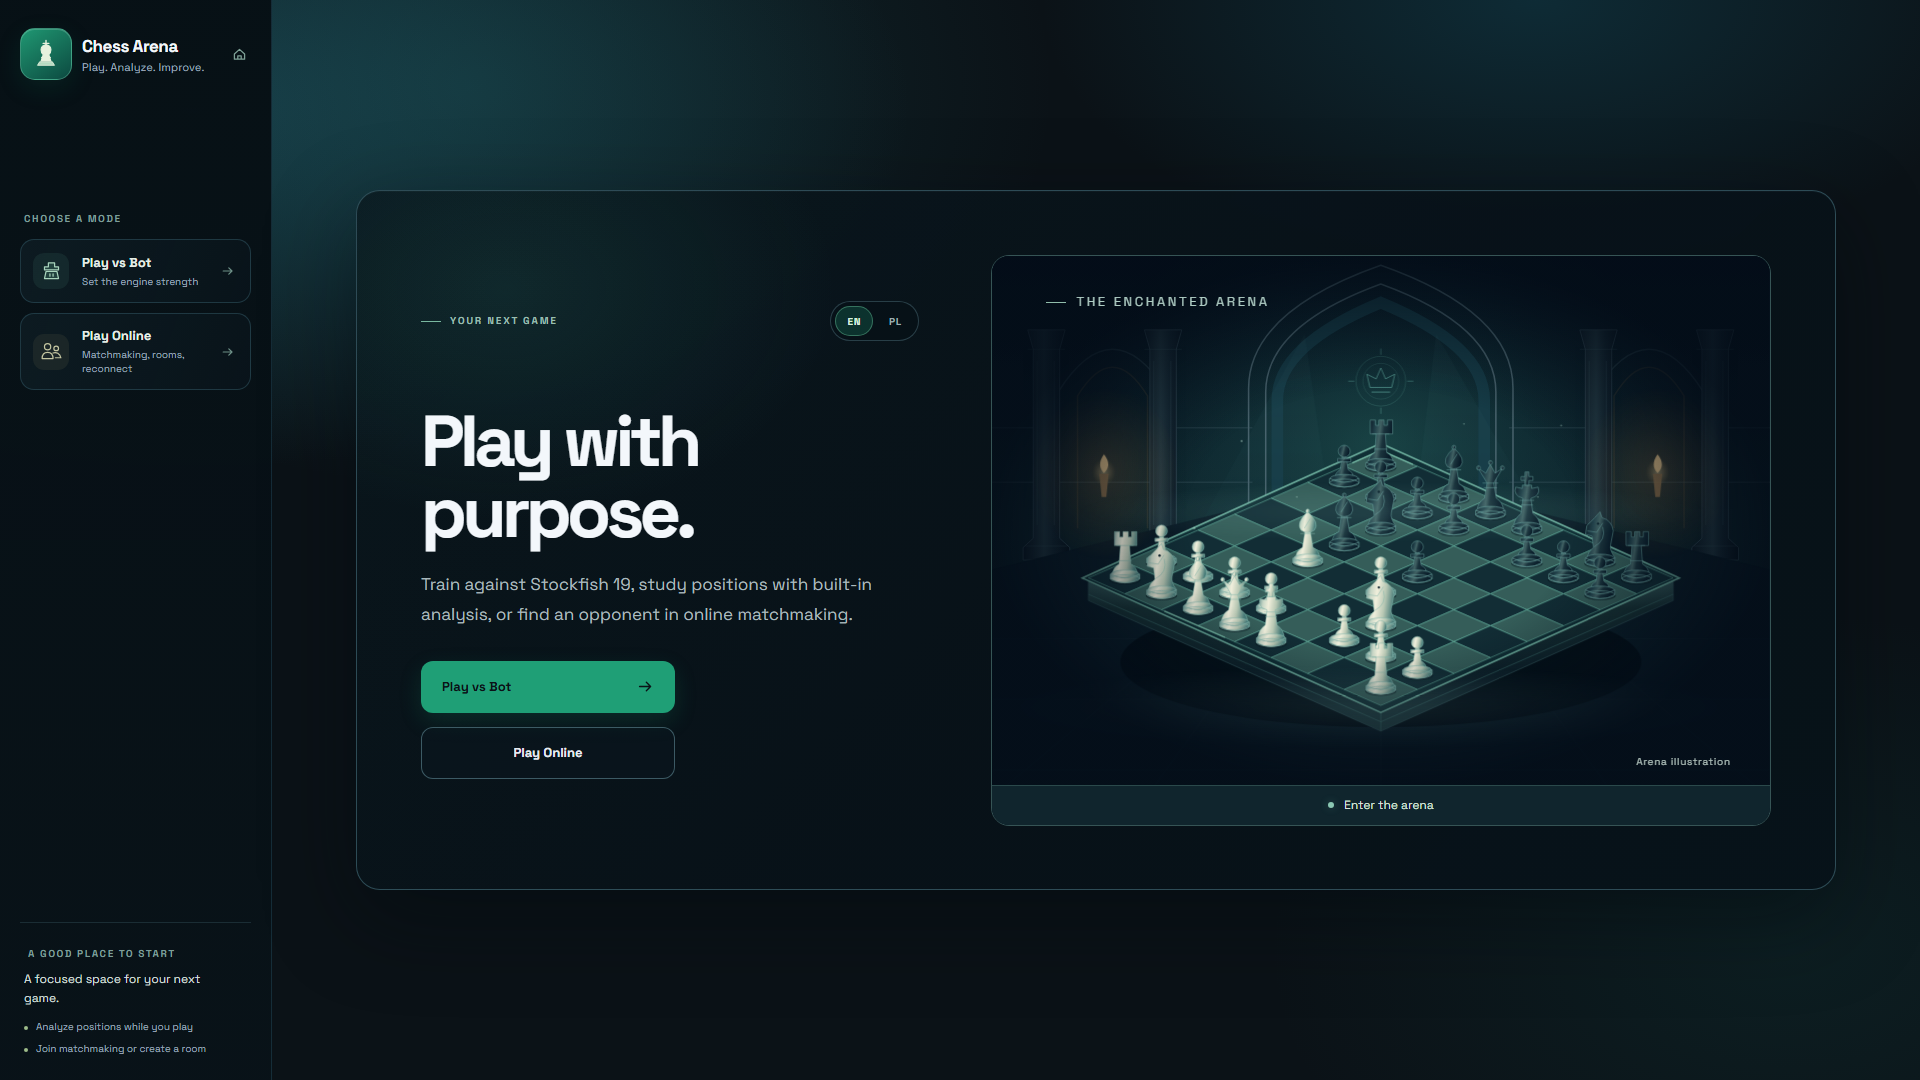
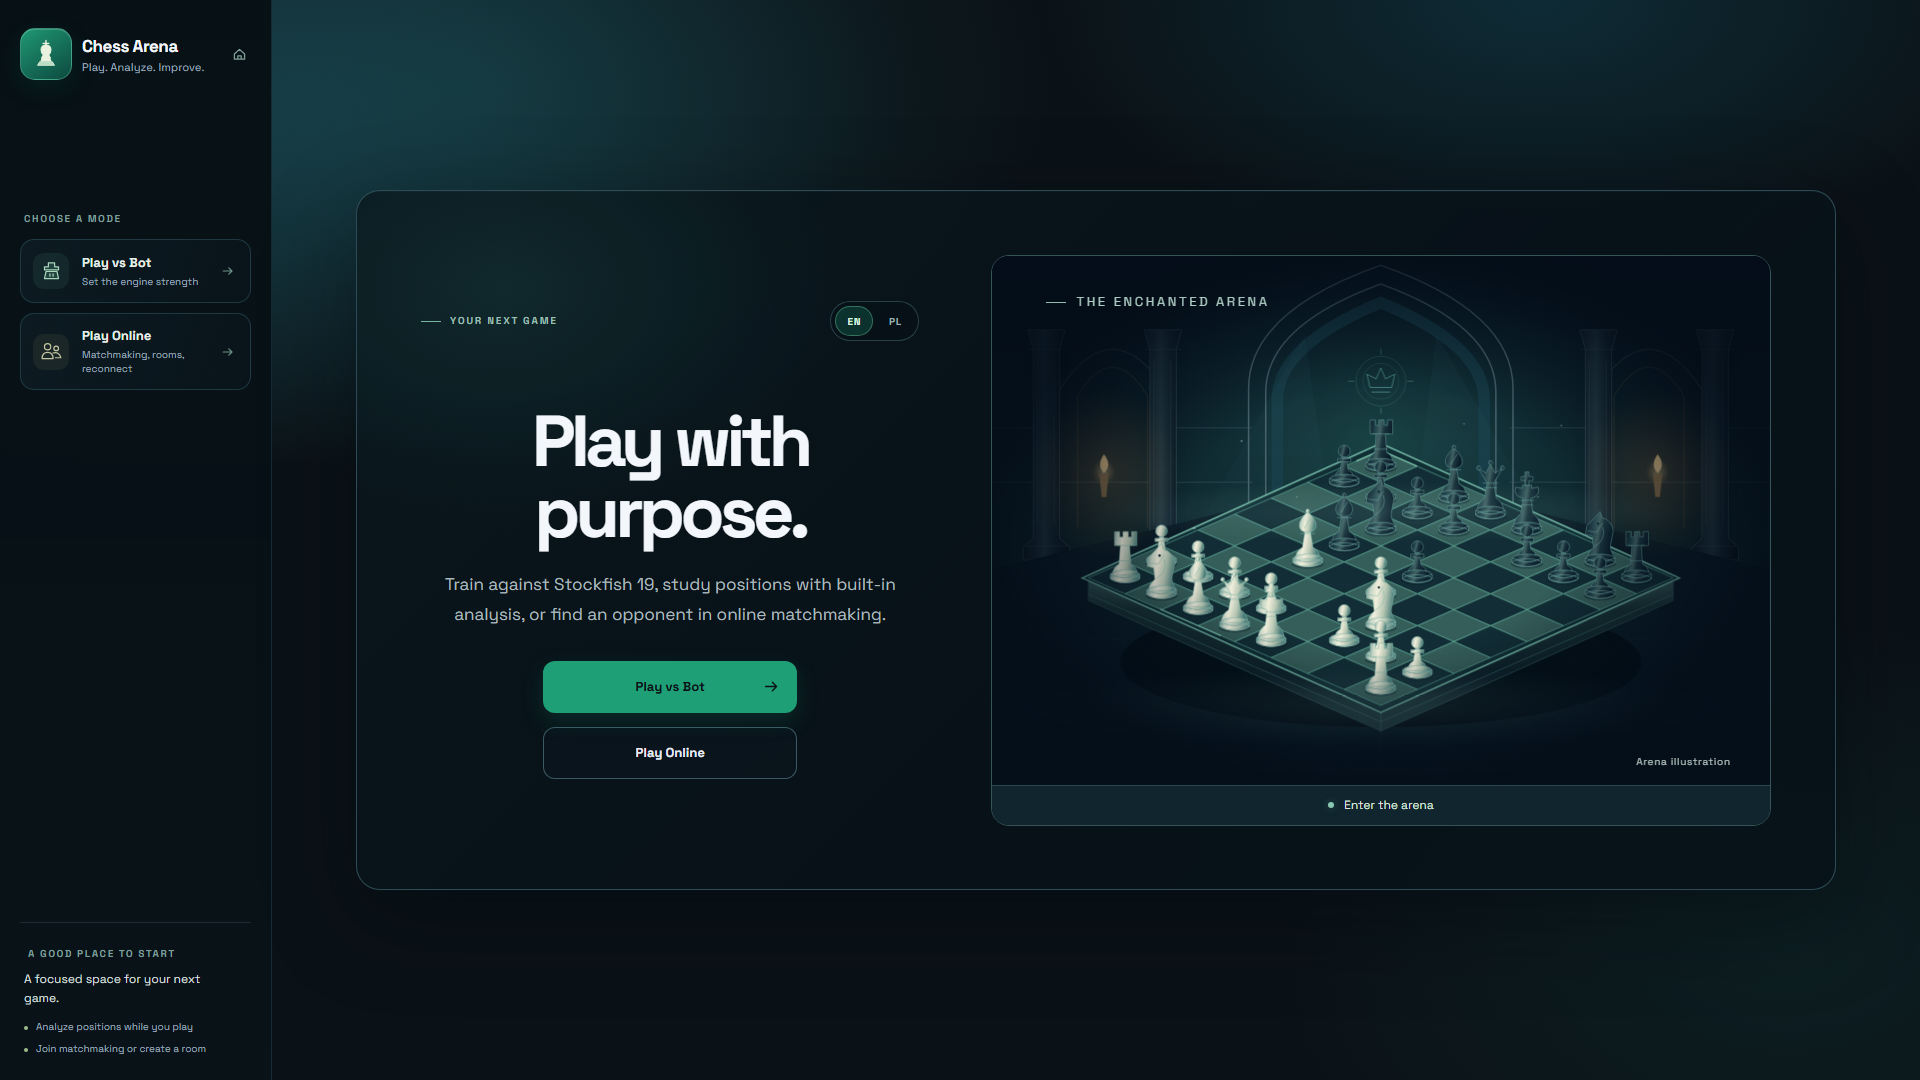
test(arena): refresh responsive review evidence

Changed region(s): [[0.2188, 0.3667, 0.4688, 0.5806], [0.3438, 0.6111, 0.4375, 0.7028], [0.2188, 0.6111, 0.3125, 0.7028]]

diff --git a/chess-web/src/app/home/home.page.css b/chess-web/src/app/home/home.page.css
@@ -134,7 +134,7 @@
 }
 
 .hero-text, .home-arena { position: relative; min-width: 0; }
-.hero-text { max-width: 540px; }
+.hero-text { max-width: 540px; text-align: center; }
 .hero-topline { display: flex; justify-content: space-between; align-items: center; gap: 12px; margin-bottom: clamp(38px, 6vh, 70px); }
 .hero-kicker { display: inline-flex; align-items: center; gap: 9px; color: #9bbdb0; font-size: 10px; font-weight: 700; letter-spacing: .18em; line-height: 1.4; }
 .kicker-line { width: 20px; height: 1px; background: #79b8a0; }
@@ -169,7 +169,7 @@
 
 .hero-text h1 {
   max-width: 10ch;
-  margin: 0 0 22px;
+  margin: 0 auto 22px;
   color: var(--arena-text-strong);
   font-size: clamp(42px, 5.3vw, 72px);
   font-weight: 700;
@@ -178,12 +178,13 @@
   text-wrap: balance;
 }
 
-.hero-description { max-width: 43ch; margin: 0; color: #aab9bd; font-size: clamp(14px, 1.2vw, 17px); line-height: 1.72; }
-.hero-actions { display: grid; grid-template-columns: minmax(0, 254px); gap: 14px; margin-top: 32px; }
+.hero-description { max-width: 43ch; margin: 0 auto; color: #aab9bd; font-size: clamp(14px, 1.2vw, 17px); line-height: 1.72; }
+.hero-actions { display: grid; grid-template-columns: minmax(0, 254px); justify-content: center; gap: 14px; margin: 32px auto 0; }
 .hero-actions .arena-button { box-sizing: border-box; width: 100%; min-width: 0; min-height: 52px; padding: 0 20px; border-radius: 12px; font-size: 13px; text-decoration: none; }
-.hero-actions .arena-button--primary { justify-content: space-between; gap: 8px; box-shadow: 0 8px 22px rgba(22, 153, 111, .18); }
+.hero-actions .arena-button--primary { position: relative; justify-content: center; box-shadow: 0 8px 22px rgba(22, 153, 111, .18); }
 .hero-actions .arena-button--secondary { border-color: rgba(83, 119, 131, .7); background: rgba(10, 24, 31, .48); }
 .hero-actions svg { width: 17px; height: 17px; fill: none; stroke: currentColor; stroke-width: 1.6; stroke-linecap: round; stroke-linejoin: round; }
+.hero-actions .arena-button--primary svg { position: absolute; right: 16px; }
 .home-arena { width: 100%; }
 .arena-placeholder { aspect-ratio: 10 / 7.25; border: 1px solid #365455; border-radius: var(--arena-radius-card); background: linear-gradient(145deg, #0c2028, #071420 60%, #10252d); }
 

diff --git a/docs/arena-review.md b/docs/arena-review.md
@@ -1,15 +1,16 @@
 # Chess Arena visual and functional review
 
-Browser review recorded at `2026-10-28T11:30:23Z`. Detailed browser data is in [report.json](arena-evidence/report.json), and the earlier live multiplayer run is in [multiplayer-report.json](arena-evidence/multiplayer-report.json). The current automated multiplayer smoke coverage is documented in [multiplayer-e2e.md](multiplayer-e2e.md).
+Browser review recorded at `2026-10-28T13:32:07Z`. Detailed browser data is in [report.json](arena-evidence/report.json), and the earlier live multiplayer run is in [multiplayer-report.json](arena-evidence/multiplayer-report.json). The current automated multiplayer smoke coverage is documented in [multiplayer-e2e.md](multiplayer-e2e.md).
 
 ## Landing page
 
-The landing page uses the Chess Arena king mark and the animated arena scene. The two primary actions remain stacked and share the same left edge and width. The browser review checked alignment at all eight viewport sizes, along with English and Polish copy, language persistence, and both navigation actions.
+The landing page uses the Chess Arena king mark and the animated arena scene. At all eight viewport sizes, the hero copy and stacked action group are centered; both actions have equal width, and each label is centered within its button. The browser review also checked English and Polish copy, language persistence, and both navigation actions.
 
 | View | Screenshot |
 | --- | --- |
 | English hero | [home-1440x900.png](arena-evidence/home-1440x900.png) |
 | Polish hero | [home-polish-1440x900.png](arena-evidence/home-polish-1440x900.png) |
+| Polish hero at simulated 200% zoom | [home-polish-zoom-200.png](arena-evidence/home-polish-zoom-200.png) |
 | Mobile, 375 × 667 | [home-375x667.png](arena-evidence/home-375x667.png) |
 | Mobile, 390 × 844 | [home-390x844.png](arena-evidence/home-390x844.png) |
 | Tablet, 768 × 1024 | [home-768x1024.png](arena-evidence/home-768x1024.png) |
@@ -18,11 +19,13 @@ The landing page uses the Chess Arena king mark and the animated arena scene. Th
 | Desktop, 1366 × 768 | [home-1366x768.png](arena-evidence/home-1366x768.png) |
 | Desktop, 1920 × 1080 | [home-1920x1080.png](arena-evidence/home-1920x1080.png) |
 
-No horizontal overflow was found at these sizes. The screenshots capture the full page.
+No horizontal overflow was found at these sizes. At simulated 200% browser zoom (720 by 450 CSS viewport), the Polish hero description stayed within the viewport and was not clipped. The report records when vertical scrolling is required. Screenshots capture the full page.
+
+Vertical scrolling is expected at 375 by 667, 390 by 844, and 768 by 1024 in the lobby; at 375 by 667 and 768 by 1024 during active play; and at the 720 by 450 layout viewport used to simulate 200% zoom. No horizontal overflow or clipped Polish hero text was found.
 
 ## Arena and multiplayer
 
-The animated arena appears on the landing page and lobby, with reduced-motion and offscreen behavior. Match-found feedback does not block board input or replay after duplicate events.
+The animated arena appears on the landing page and lobby, with reduced-motion and offscreen behavior. The multiplayer lobby and active board were checked at all eight viewport sizes; the board stayed within the viewport without blur, and the report records when vertical scrolling is required. Match-found feedback does not block board input or replay after duplicate events.
 
 The live browser run used independent Chrome clients against the local backend. It verified room creation, host management and deletion, a second player joining, host start, both players receiving the same game with opposite colors, synchronized `e2–e4` and `e7–e5` moves, turn ownership, read-only spectator access, and game completion. It recorded zero browser runtime errors.
 
@@ -33,7 +36,6 @@ The live browser run used independent Chrome clients against the local backend. 
 | Lobby | [lobby-idle.png](arena-evidence/lobby-idle.png) |
 | Waiting for opponent | [waiting-for-opponent.png](arena-evidence/waiting-for-opponent.png) |
 | Match found | [match-found.png](arena-evidence/match-found.png) |
-| Active game | [active-game.png](arena-evidence/active-game.png) |
 | Reconnecting | [reconnecting.png](arena-evidence/reconnecting.png) |
 | Reduced motion | [reduced-motion.png](arena-evidence/reduced-motion.png) |
 | Room management | [multiplayer-room-management.png](arena-evidence/multiplayer-room-management.png) |
@@ -48,17 +50,17 @@ The Arena review ran in headless Chrome 156 on Windows with an AMD Ryzen 5 8645H
 | --- | ---: | ---: | ---: |
 | Lobby | 1440 × 900 | 16.8 ms | 0 |
 | Lobby, 4× slowdown | 1440 × 900 | 16.7 ms | 0 |
-| Mobile emulation, 4× slowdown | 375 × 667 | 16.7 ms | 0 |
+| Mobile emulation, 4× slowdown | 375 × 667 | 16.8 ms | 0 |
 | Waiting fixture, 4× slowdown | 1440 × 900 | 16.7 ms | 0 |
 
-The headless runner reported about 60 frames per second. Mobile used viewport emulation and 4× CPU slowdown on the same laptop; these results are not physical-device measurements. Twenty Home-to-game-to-Home cycles kept DOM nodes at 769 and JavaScript listeners at 15. Used heap rose by about 1.14 MiB; the measurements do not establish a perfectly flat heap over long sessions.
+The headless runner reported about 60 frames per second. Mobile used viewport emulation and 4× CPU slowdown on the same laptop; these results are not physical-device measurements. Twenty Home-to-game-to-Home cycles kept DOM nodes at 769 and JavaScript listeners at 15. Used heap rose by about 1.12 MiB; the measurements do not establish a perfectly flat heap over long sessions.
 
-The current production build has an initial bundle of 297.44 kB raw / 82.46 kB estimated transfer and a 22,195 B Arena lazy chunk (7,234 B gzip). Angular reports no component stylesheet budget warning. The remaining CommonJS warning is for `sockjs-client`; it stays because Spring serves the tested STOMP endpoint with SockJS enabled.
+The current production build has an initial bundle of 297.63 kB raw / 82.43 kB estimated transfer and a 22,207 B Arena lazy chunk (7,240 B gzip). Angular reports no component stylesheet budget warning. The remaining CommonJS warning is for `sockjs-client`; it stays because Spring serves the tested STOMP endpoint with SockJS enabled.
 
 ## Validation
 
-- Frontend unit suite: 17 files, 96 tests passed.
+- Frontend unit suite: 19 files, 110 tests passed.
 - Stockfish.js 19 asset and UCI search check: passed.
 - Production Angular build: completed with no component stylesheet budget warning; the remaining `sockjs-client` CommonJS warning is documented above.
-- Arena browser assertions: language, navigation, all eight landing viewports, animation states, reduced motion, and repeated route transitions passed.
+- Arena browser assertions: centered hero copy and action labels, language, navigation, all eight landing, lobby, and active-game viewports; simulated 200% zoom with Polish copy; animation states; reduced motion; and repeated route transitions passed.
 - Multiplayer browser smoke: real host, guest, and spectator contexts verified room membership, two-way chat, synchronized legal moves, wrong-turn rejection, spectator permissions, resignation, and game review. See [multiplayer-e2e.md](multiplayer-e2e.md) for local reproduction and scope limits.
